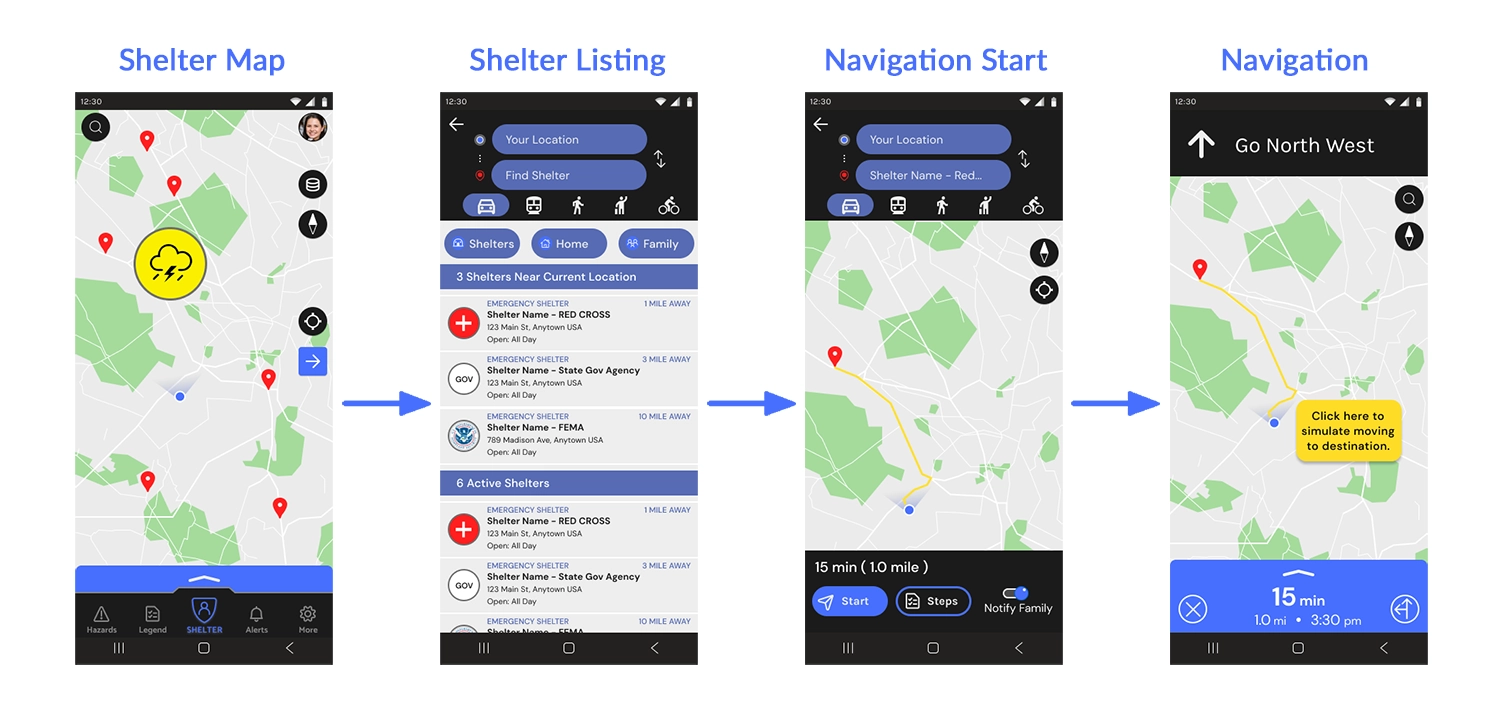
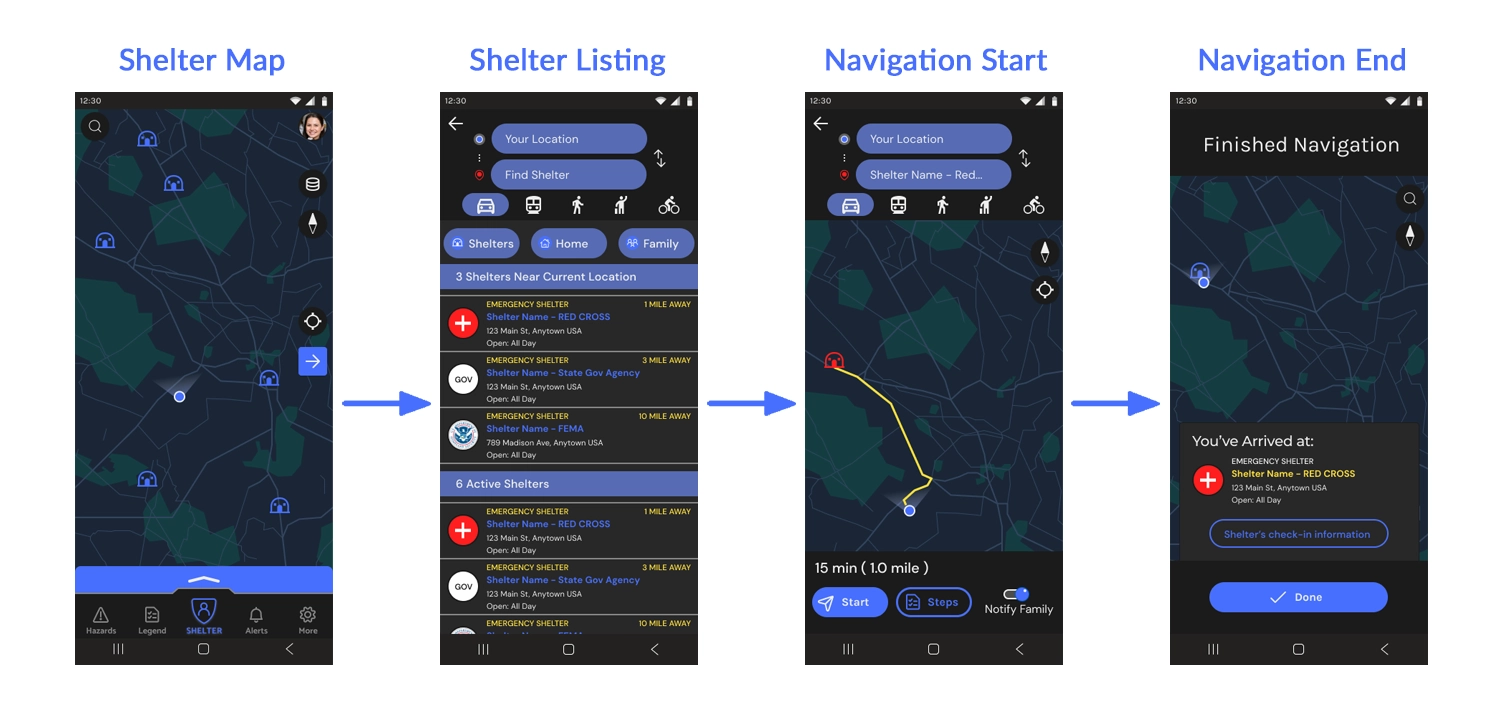
Updating Shelter Seeker project
Updating Images and links for newer update to Shelter Seeker Project.

diff --git a/shelterseeker.html b/shelterseeker.html
@@ -117,7 +117,7 @@
 								Link to FIGMA Prototype:
 							</h3>
 							<div class="figma-link-table">
-								<a class="bold-link" href="https://www.figma.com/proto/MHRF1erTEPIMEZeHQvqvz4/Untitled?type=design&node-id=127-2232&t=sBEjNHeMy7oJrKQD-1&scaling=min-zoom&page-id=127%3A2223&starting-point-node-id=127%3A2224&show-proto-sidebar=1&mode=design" target="_blank">Shelter Seeker Prototype</a>
+								<a class="bold-link" href="https://www.figma.com/proto/MHRF1erTEPIMEZeHQvqvz4/Shelter-Seeker---High-Fidelity?type=design&node-id=546-3941&t=y3NfFcycuF0nLGNU-1&scaling=min-zoom&page-id=546%3A3901&starting-point-node-id=546%3A3910&show-proto-sidebar=1&mode=design" target="_blank">Shelter Seeker Prototype</a>
 							</div> 
 							<hr class="hidden">
 						</div> <!-- End Column project 1 -->
@@ -420,7 +420,7 @@
 				<img fetchpriority="low" class="main-image" src="img/shelterseeker/ss_hi_fidelity_prototype.webp" alt="Shelter Seeker Hi-Fi Prototype">
 				<div class="work-flow-table"> <!-- Hi-Fi Prototype -->
 					<p class="para1">
-						<span class="bold-word">Figma Link:</span> <a class="bold-link" href="https://www.figma.com/proto/MHRF1erTEPIMEZeHQvqvz4/Untitled?type=design&node-id=127-2232&t=uChY5pJfsD42nes3-1&scaling=min-zoom&page-id=127%3A2223&starting-point-node-id=127%3A2224&show-proto-sidebar=1&mode=design" target="_blank">Shelter Seeker Hi-Fi Prototype</a>
+						<span class="bold-word">Figma Link:</span> <a class="bold-link" href="https://www.figma.com/proto/MHRF1erTEPIMEZeHQvqvz4/Shelter-Seeker---High-Fidelity?type=design&node-id=546-3941&t=y3NfFcycuF0nLGNU-1&scaling=min-zoom&page-id=546%3A3901&starting-point-node-id=546%3A3910&show-proto-sidebar=1&mode=design" target="_blank">Shelter Seeker Hi-Fi Prototype</a>
 					</p>
 					<p class="para1">
 						This marks the final version of the Shelter Seeker app prototype, as laid out in Figma. Similar to the lo-fi version, the user commences the journey from the 'Get Started' screen, assuming a fresh app installation. The user can navigate through the account creation process or swiftly sign in with an existing account. On the main map screen, the bottom navigation menu empowers the user to explore the app's core functionality, with the primary objective being to click on a disaster for information or successfully navigate to a shelter.
@@ -503,7 +503,7 @@
 				<img fetchpriority="low" class="main-image" src="img/shelterseeker/ss_hi_fidelity_prototype_web.webp" alt="Hi-Fi Website Prototype">
 				<div class="work-flow-table"> <!-- Website Mockup/Prototype -->
 					<p class="para1">
-						<span class="bold-word">Figma Link:</span> <a class="bold-link" href="https://www.figma.com/proto/MHRF1erTEPIMEZeHQvqvz4/Untitled?type=design&node-id=203-3993&t=uChY5pJfsD42nes3-1&scaling=min-zoom&page-id=127%3A2223&starting-point-node-id=203%3A3993&show-proto-sidebar=1&mode=design" target="_blank">Shelter Seeker Website Mockup / Prototype</a>
+						<span class="bold-word">Figma Link:</span> <a class="bold-link" href="https://www.figma.com/proto/MHRF1erTEPIMEZeHQvqvz4/Shelter-Seeker---High-Fidelity?type=design&node-id=546-5690&t=1kIi77bHkvi0u3kL-1&scaling=min-zoom&page-id=546%3A3901&starting-point-node-id=546%3A5690&show-proto-sidebar=1&mode=design" target="_blank">Shelter Seeker Website Mockup / Prototype</a>
 					</p>
 					<p class="para1">
 						Above is a link to the prototype mockup of the website version of Shelter Seeker. Compared to the phone version of the project, this isn’t as interactive and only allows users to check out the webpage layouts and designs rather than interact with the project. If you're interested in my ability to prototype websites in Figma check out my second portfolio project 
